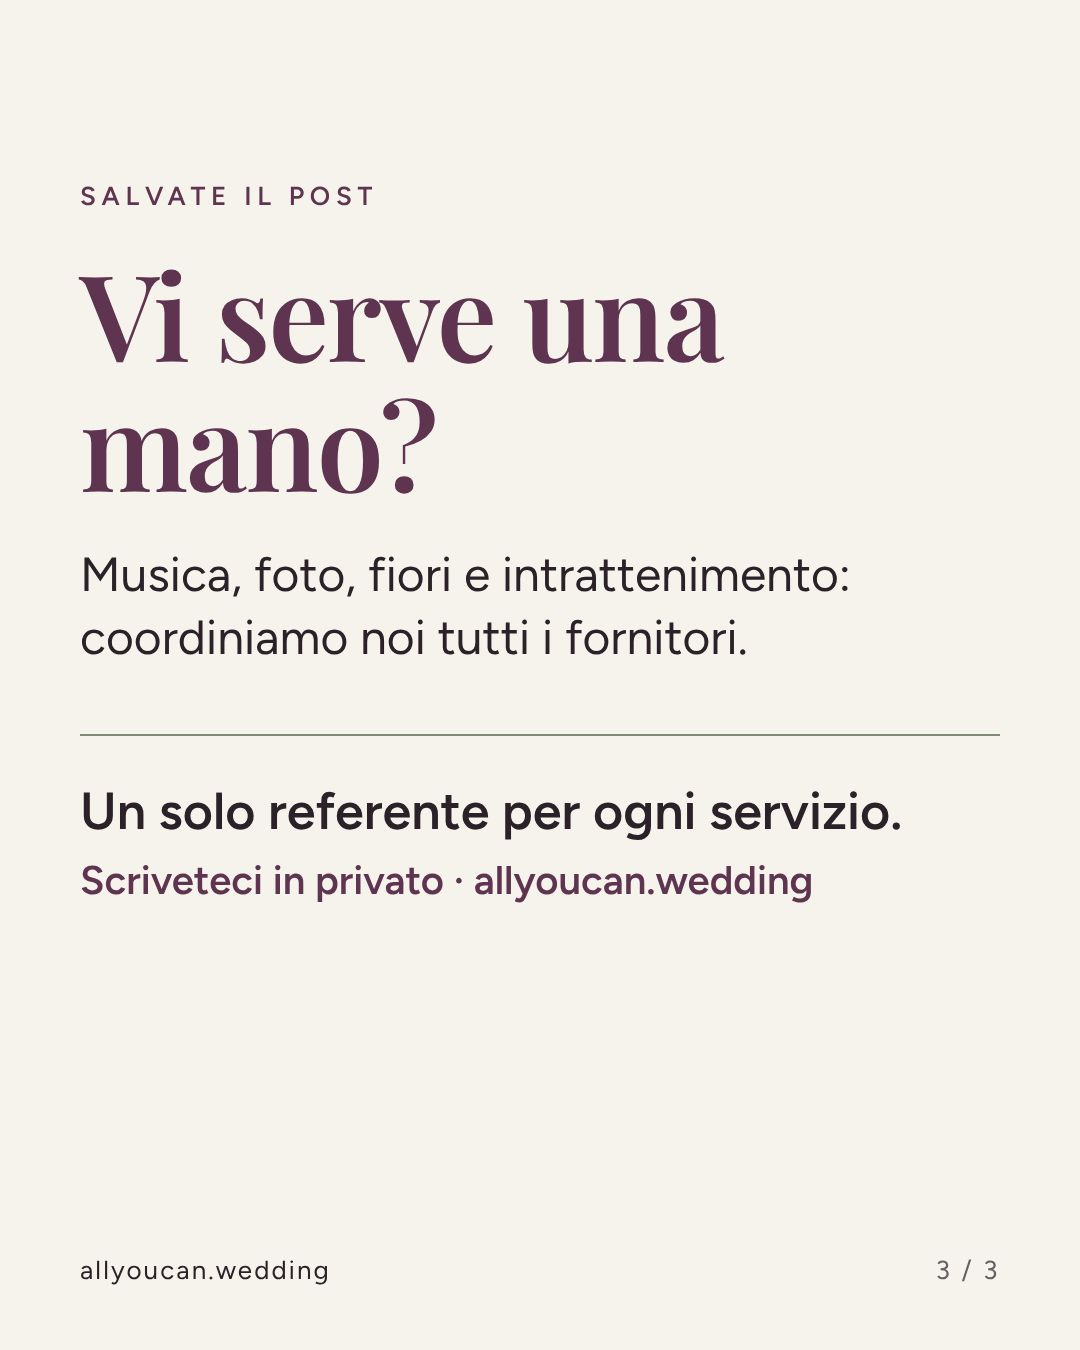
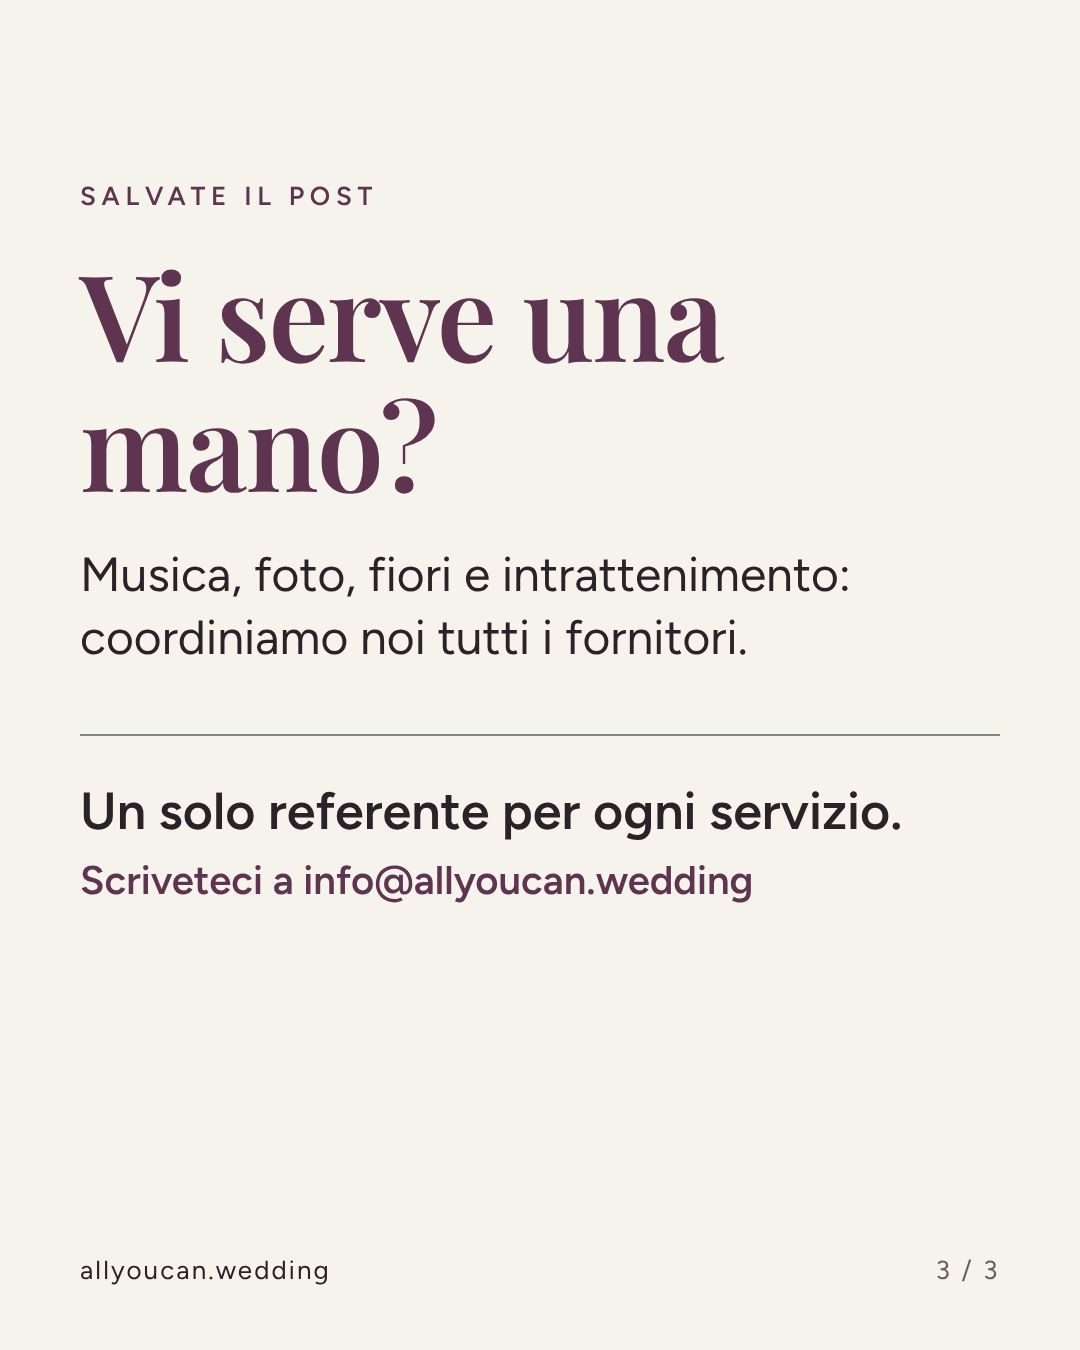
Contatto via email (info@allyoucan.wedding) in tutte le grafiche
Claude-Session: https://claude.ai/code/session_01SJ56hpRc5WY4agGRE8D63N

Changed region(s): [[0.2444, 0.6222, 0.7639, 0.6844]]

diff --git a/tools/render.py b/tools/render.py
@@ -111,7 +111,7 @@ def slide_html(s, i, n, workdir):
     if t == "cta":
         return ('<div class="s cta"><div class="txt">%s<h2>%s</h2>%s<div class="ctab"><strong>%s</strong><span>%s</span></div></div>%s</div>') % (
             eye, e(s["title"]), text, e(s.get("cta", "Un solo referente per ogni servizio.")),
-            e(s.get("contact", "Scriveteci in privato · allyoucan.wedding")), foot)
+            e(s.get("contact", "Scriveteci a info@allyoucan.wedding")), foot)
     return '<div class="s dark"><div class="txt">%s<h2>%s</h2><div class="rule"></div>%s</div>%s</div>' % (eye, e(s["title"]), text, foot)
 
 
